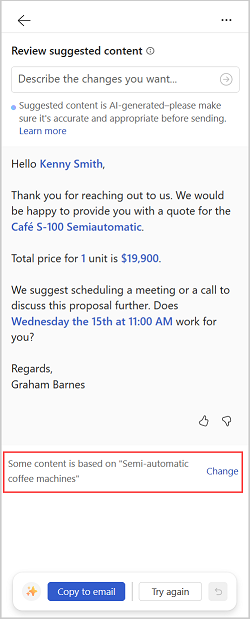
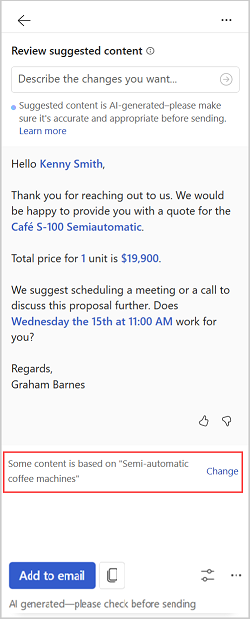
update

diff --git a/articles/sales-copilot-faq.md b/articles/sales-copilot-faq.md
@@ -47,7 +47,7 @@ Currently, Sales Copilot will work with Dynamics 365 Sales and Salesforce CRMs.
 
 Sales Copilot applies your organization's existing CRM access controls and user permissions. More information: [Privileges required to use Sales Copilot](install-viva-sales.md#privileges-required-to-use-sales-copilot).
 
-## I don't see the Copy to email button and instead only the Copy text button in the suggested content feature.
+## I don't see the Add to email button and instead only the Copy text button in the suggested content feature.
 
 The Sales Copilot for Outlook add-in must be updated to the latest version (10.0.0.11 or newer) to use the copy to email functionality of the suggested reply feature. Ask you administrator to update the Sales Copilot for Outlook add-in. More information: [Update the Sales Copilot add-in](install-viva-sales-as-an-integrated-app.md#update-the-sales-copilot-add-in).
 
